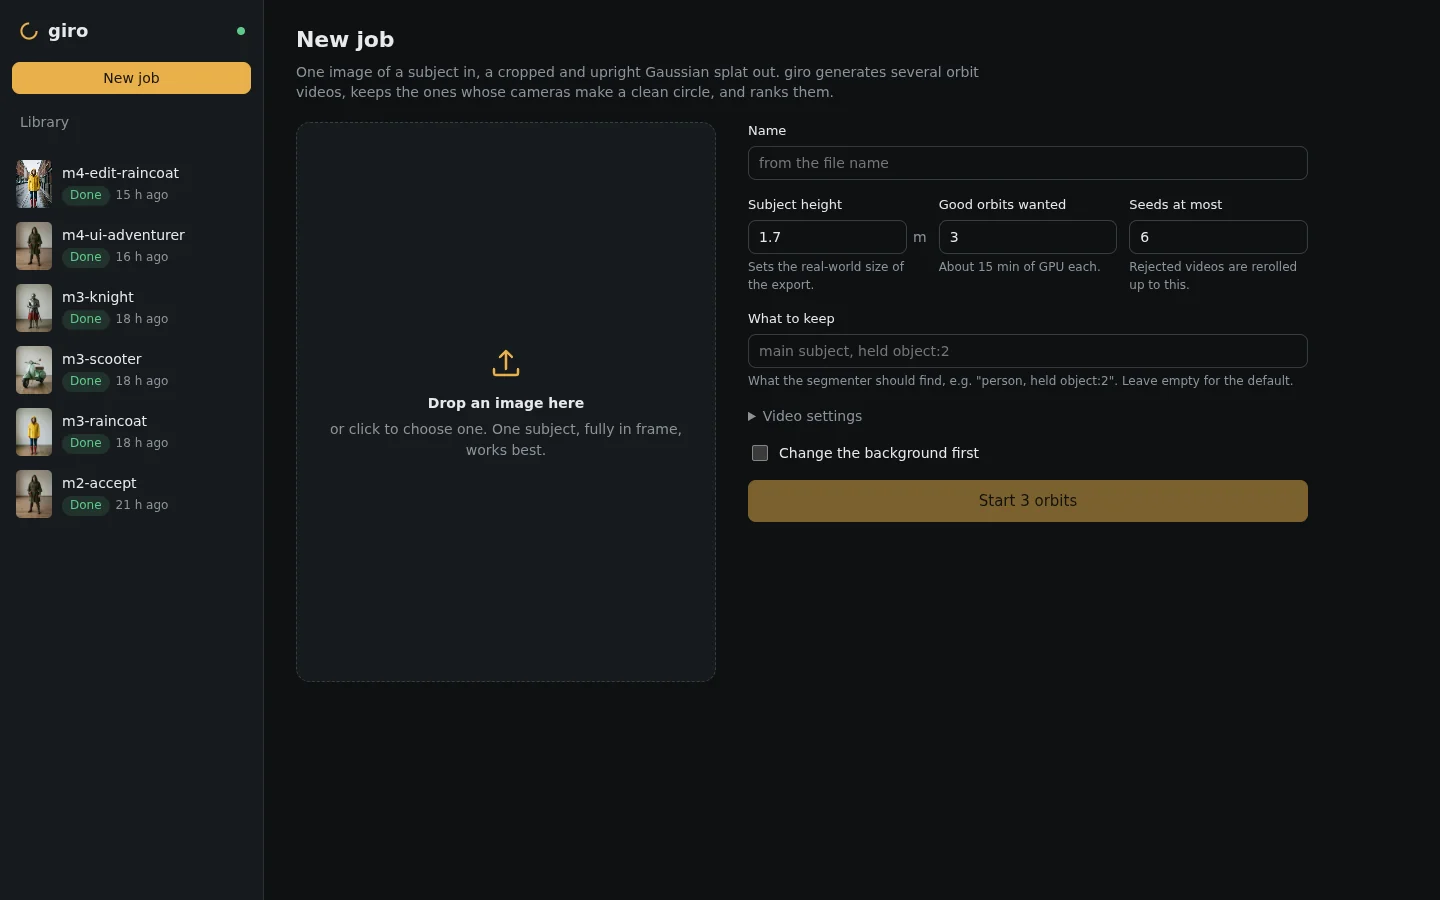
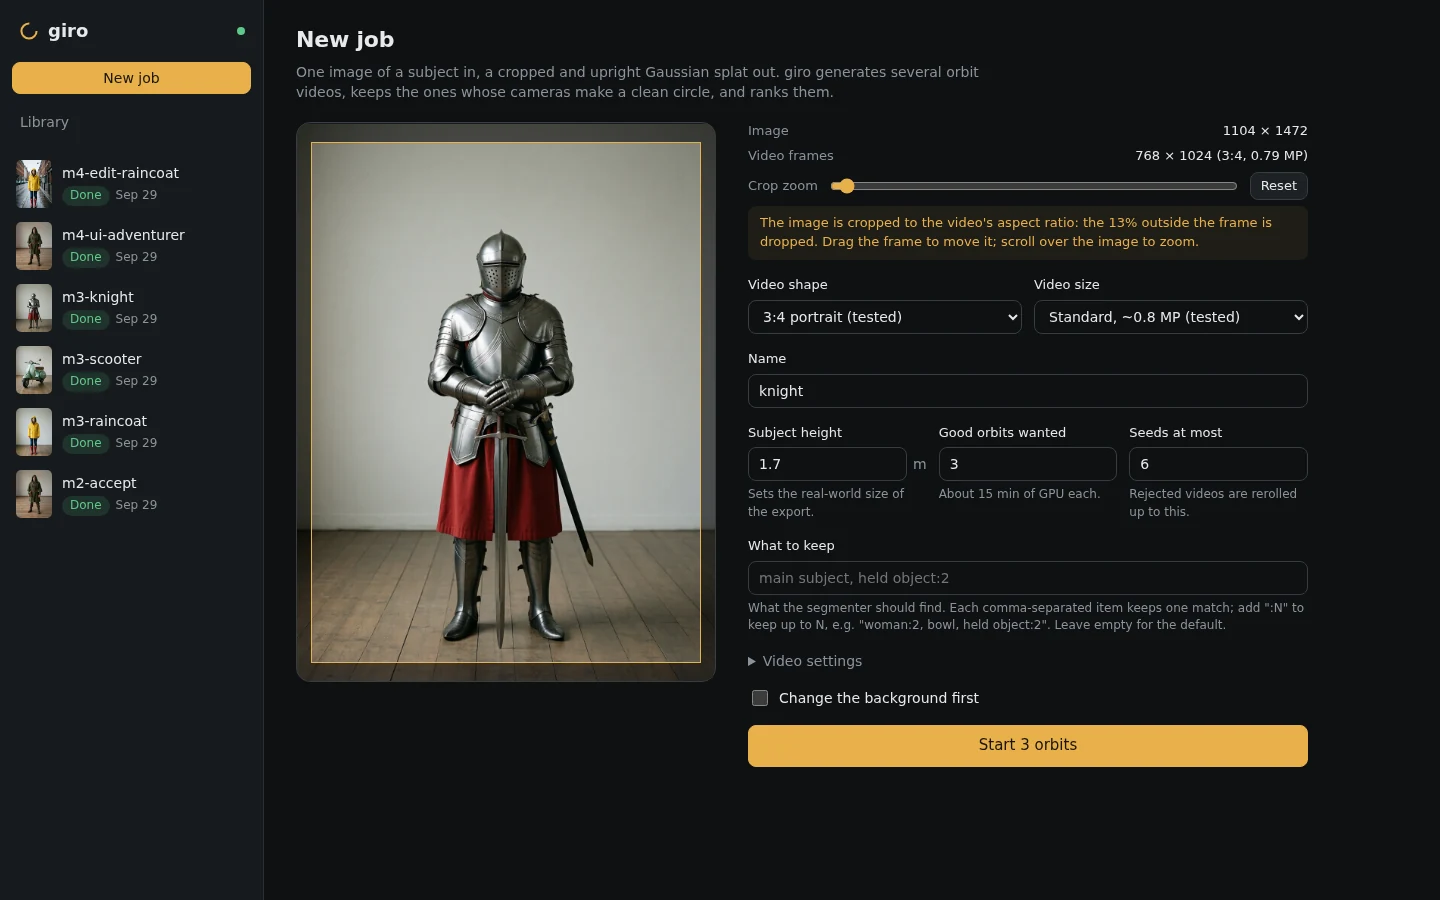
README: New job screenshot with the crop frame and video shape/size controls
Taken from a server whose library holds only the generated sample subjects.

diff --git a/README.md b/README.md
@@ -50,7 +50,7 @@ Drop an image, set the subject's height and the number of good orbits wanted, an
 change the background first. Pick the video's shape and size, and drag or zoom the crop frame to
 choose which part of the image the orbit starts from.
 
-<img src="docs/images/new-job.webp" alt="New job page: image drop zone, subject height, orbits wanted, seed limit, segmentation prompt" width="900">
+<img src="docs/images/new-job.webp" alt="New job page: the knight image with its crop frame, crop zoom, video shape and size, name, subject height, orbits wanted, seed limit, segmentation prompt with its count hint" width="900">
 
 ### Job
 The best result on top and one card per seed below. Here one seed passed. The other was rejected
